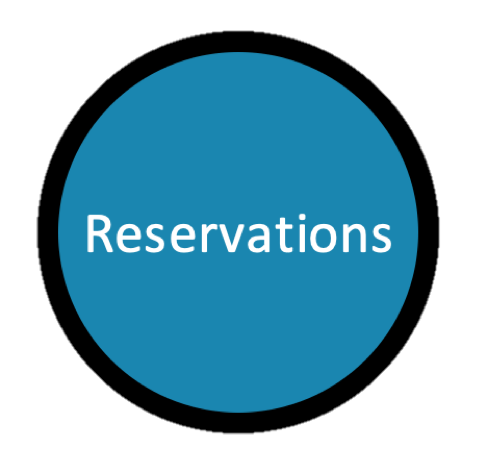
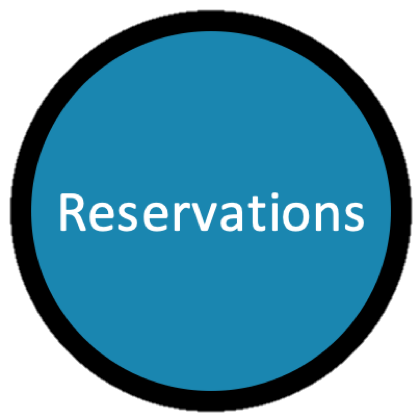
Added account_reservations page

diff --git a/static/account_reservations.html b/static/account_reservations.html
@@ -1,7 +1,7 @@
 <!DOCTYPE HTML>
 <html>
 	<head>
-    <title>Manage your Account</title>
+    <title>Manage your Reservations</title>
     <link href="Style.css" type="text/css" rel="stylesheet" />
     <link href='https://fonts.googleapis.com/css?family=Roboto' rel='stylesheet'>
     <script src="scripts.js"></script>
@@ -13,7 +13,7 @@
 			}
 		</style>
 	</head>
-	<body onload="getTableGarages();">
+	<body onload="loadCarTable()">
 		<div>
 			<ul class="HomeNav">
 				<li class=""><a href="index.html">Home</a></li>
@@ -25,7 +25,7 @@
 			</ul>
     </div>
 
-    <div class="body-content" >
+    <div class="body-content">
 
       <!-- Begin Account Page Navigation -->
 			<ul class="AccountNav">
@@ -41,38 +41,27 @@
 				</li>
 				<li>
 					<a href="account_garages.html" class="account-nav-icon">
-						<img src="images/accountimages/activegarages.png" alt="Garages" width = "200px" height = "200px">
+						<img src="images/accountimages/inactivegarages.png" alt="Garages" width = "200px" height = "200px">
 					</a>
 				</li>
 				<li>
 					<a href="account_reservations.html" class="account-nav-icon">
-						<img src="images/accountimages/inactivereservations.png" alt="Reservations" width = "200px" height = "200px">
+						<img src="images/accountimages/activereservations.png" alt="Reservations" width = "200px" height = "200px">
 					</a>
 				</li>
 			</ul>
       <!-- End Account Page Navigation -->
 
-      <!-- Begin Garage Table -->
+      <!-- Begin Vehicle Table -->
       <div class="account-content">
         <div class="owned-section" style="width: 50%; margin: auto;">
-          <div id="garage-section" >
-
+          <div id="car-section">
             <h1>Loading...</h1>
+
           </div>
         </div>
       </div>
-	  <!-- End Garage Table -->
-
-	  <!-- Begin Create Garage Button -->
-	  <div id="create-garage-button" onclick="addGarage()" style="margin-left: 24.5%">
-			<img src="images/add.png" width = "50px" height = "50px" style="vertical-align: middle">
-			<span style="color: black; font-weight:bolder">Add Garage</span>
-		</div>
-		<!-- End Create Garage Button -->
-
-		<!-- Begin Create Garage -->
-		<div id="create-garage"></div>
-		<!-- End Create Garage -->
+	    <!-- End Vehicle Table -->
 
     </div>
 	</body>

diff --git a/static/account_vehicles.html b/static/account_vehicles.html
@@ -44,6 +44,11 @@
 						<img src="images/accountimages/inactivegarages.png" alt="Garages" width = "200px" height = "200px">
 					</a>
 				</li>
+				<li>
+					<a href="account_reservations.html" class="account-nav-icon">
+						<img src="images/accountimages/inactivereservations.png" alt="Reservations" width = "200px" height = "200px">
+					</a>
+				</li>
 			</ul>
       <!-- End Account Page Navigation -->
 
@@ -52,7 +57,7 @@
         <div class="owned-section" style="width: 50%; margin: auto;">
           <div id="car-section">
             <h1>Loading...</h1>
-              
+
           </div>
         </div>
       </div>

diff --git a/static/account.html b/static/account.html
@@ -44,6 +44,11 @@
 						<img src="images/accountimages/inactivegarages.png" alt="Garages" width = "200px" height = "200px">
 					</a>
 				</li>
+				<li>
+					<a href="account_reservations.html" class="account-nav-icon">
+						<img src="images/accountimages/inactivereservations.png" alt="Reservations" width = "200px" height = "200px">	
+					</a>
+				</li>
 			</ul>
 			<!-- End Account Page Navigation -->
 
